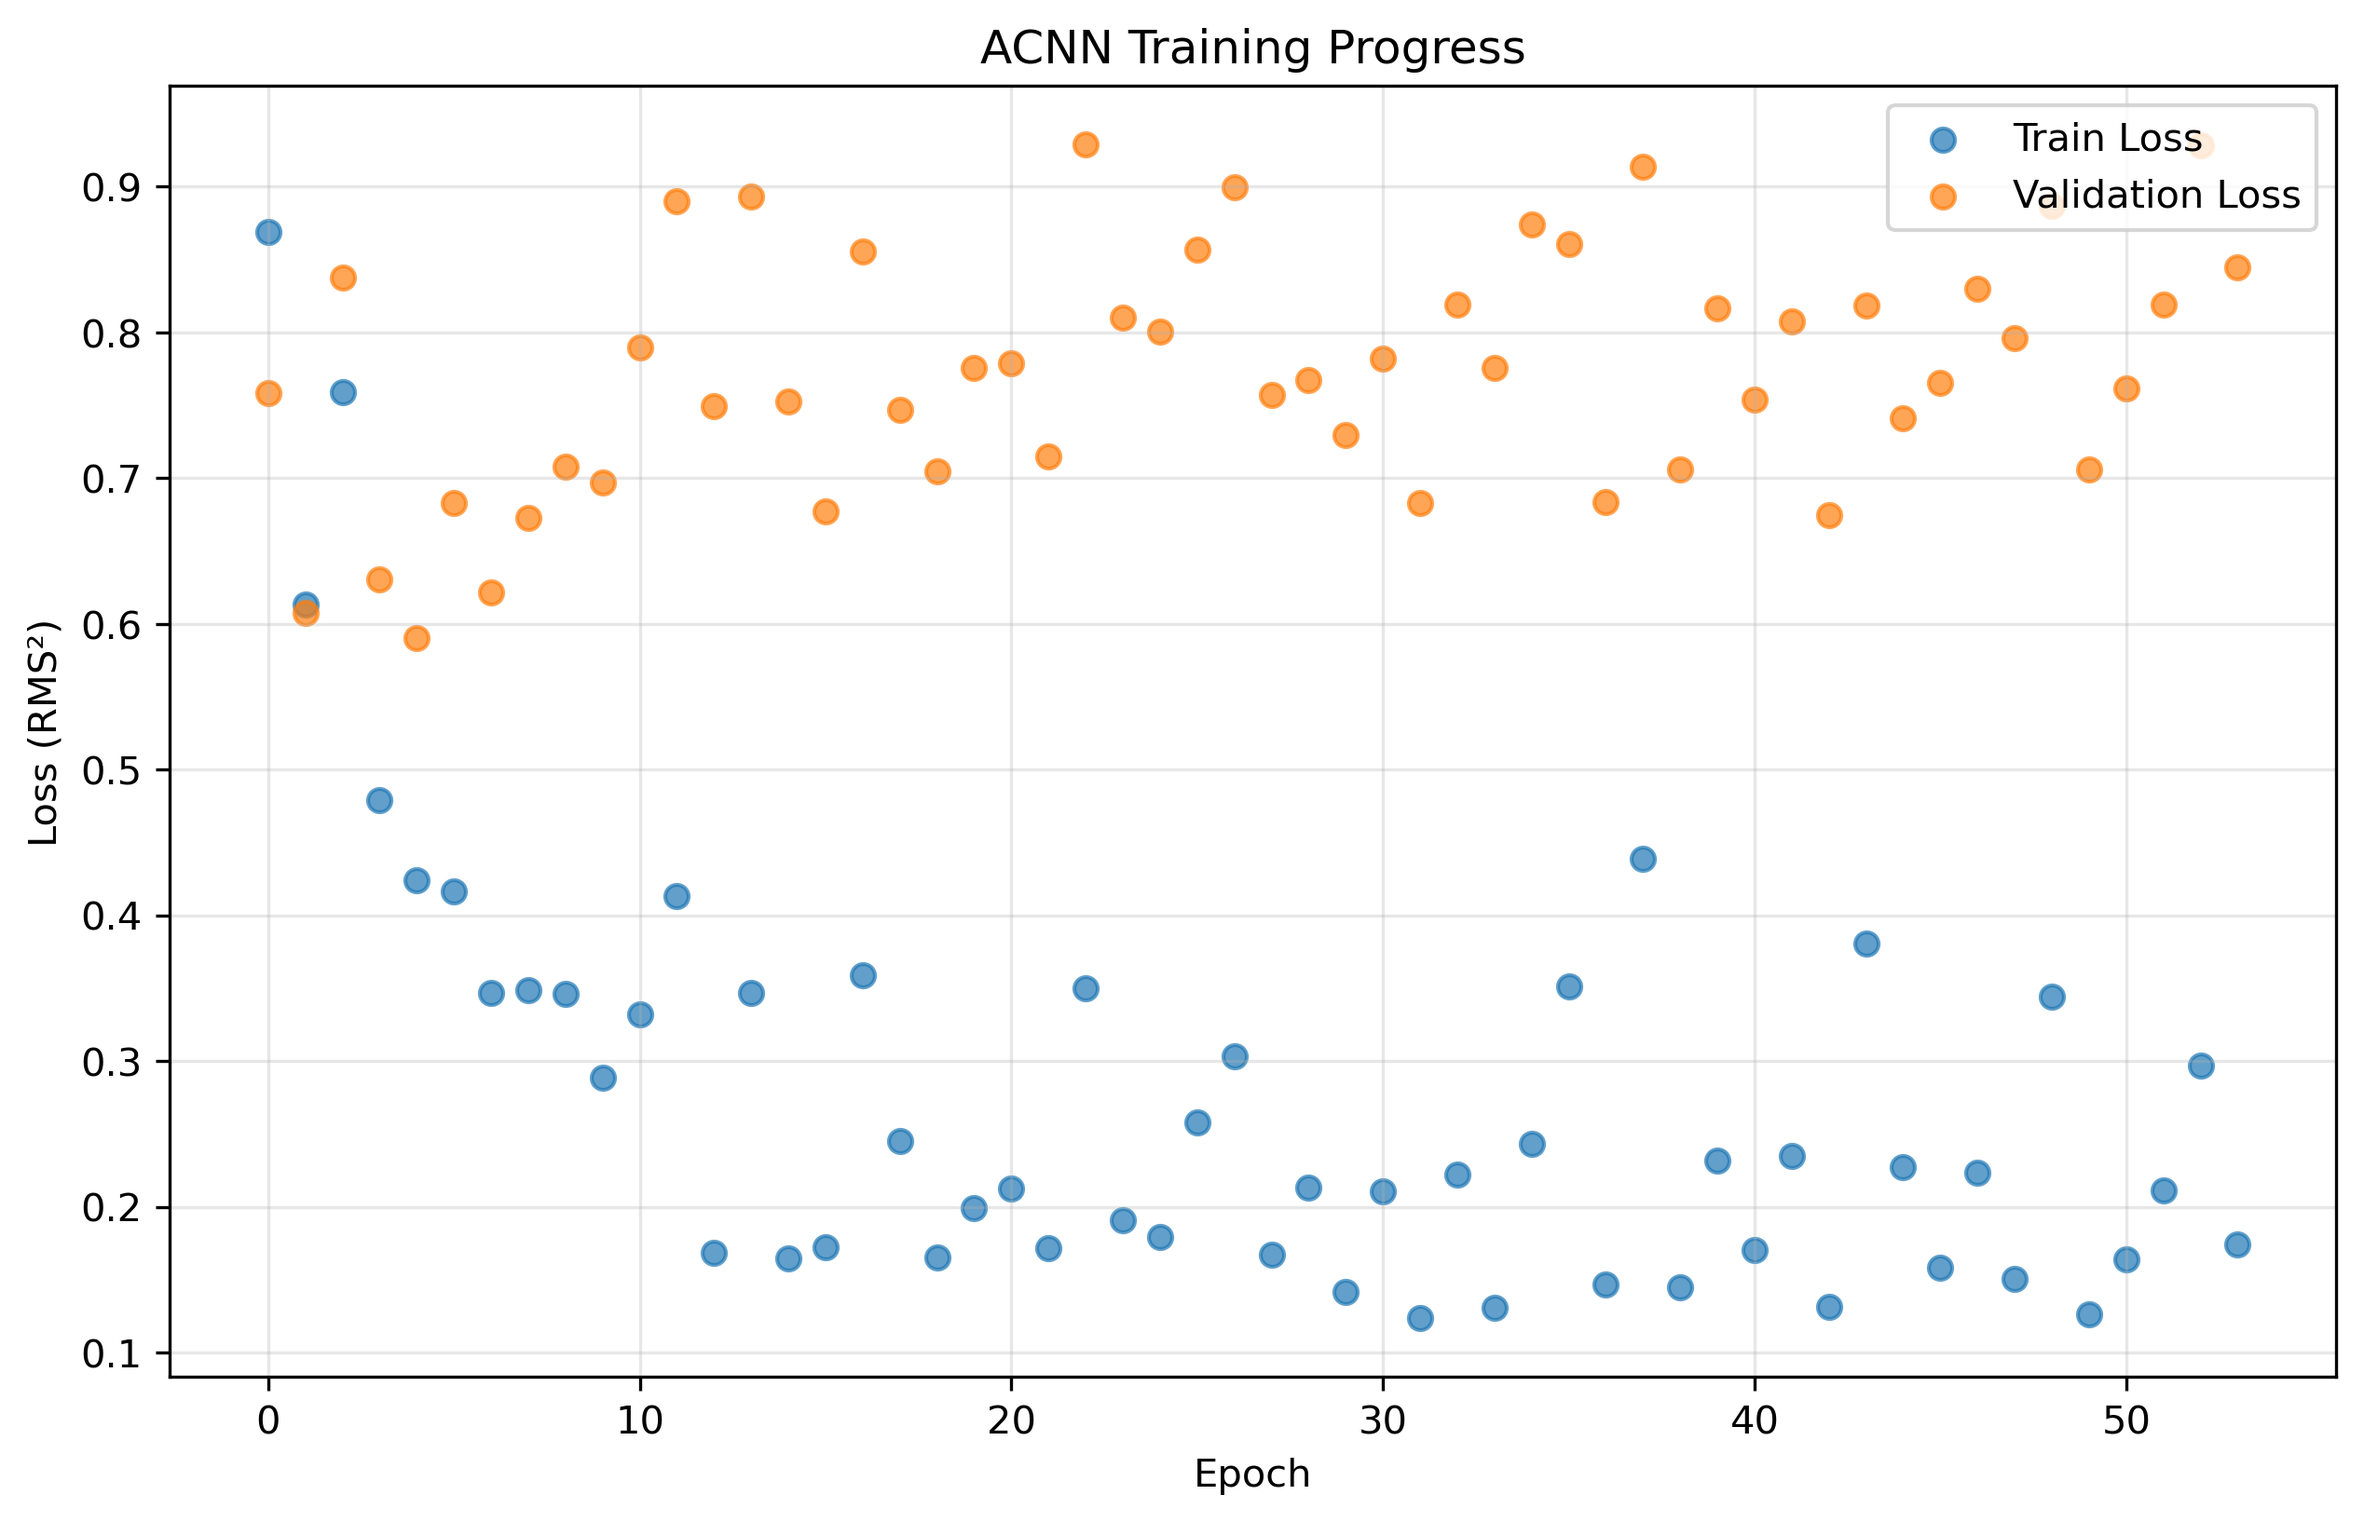
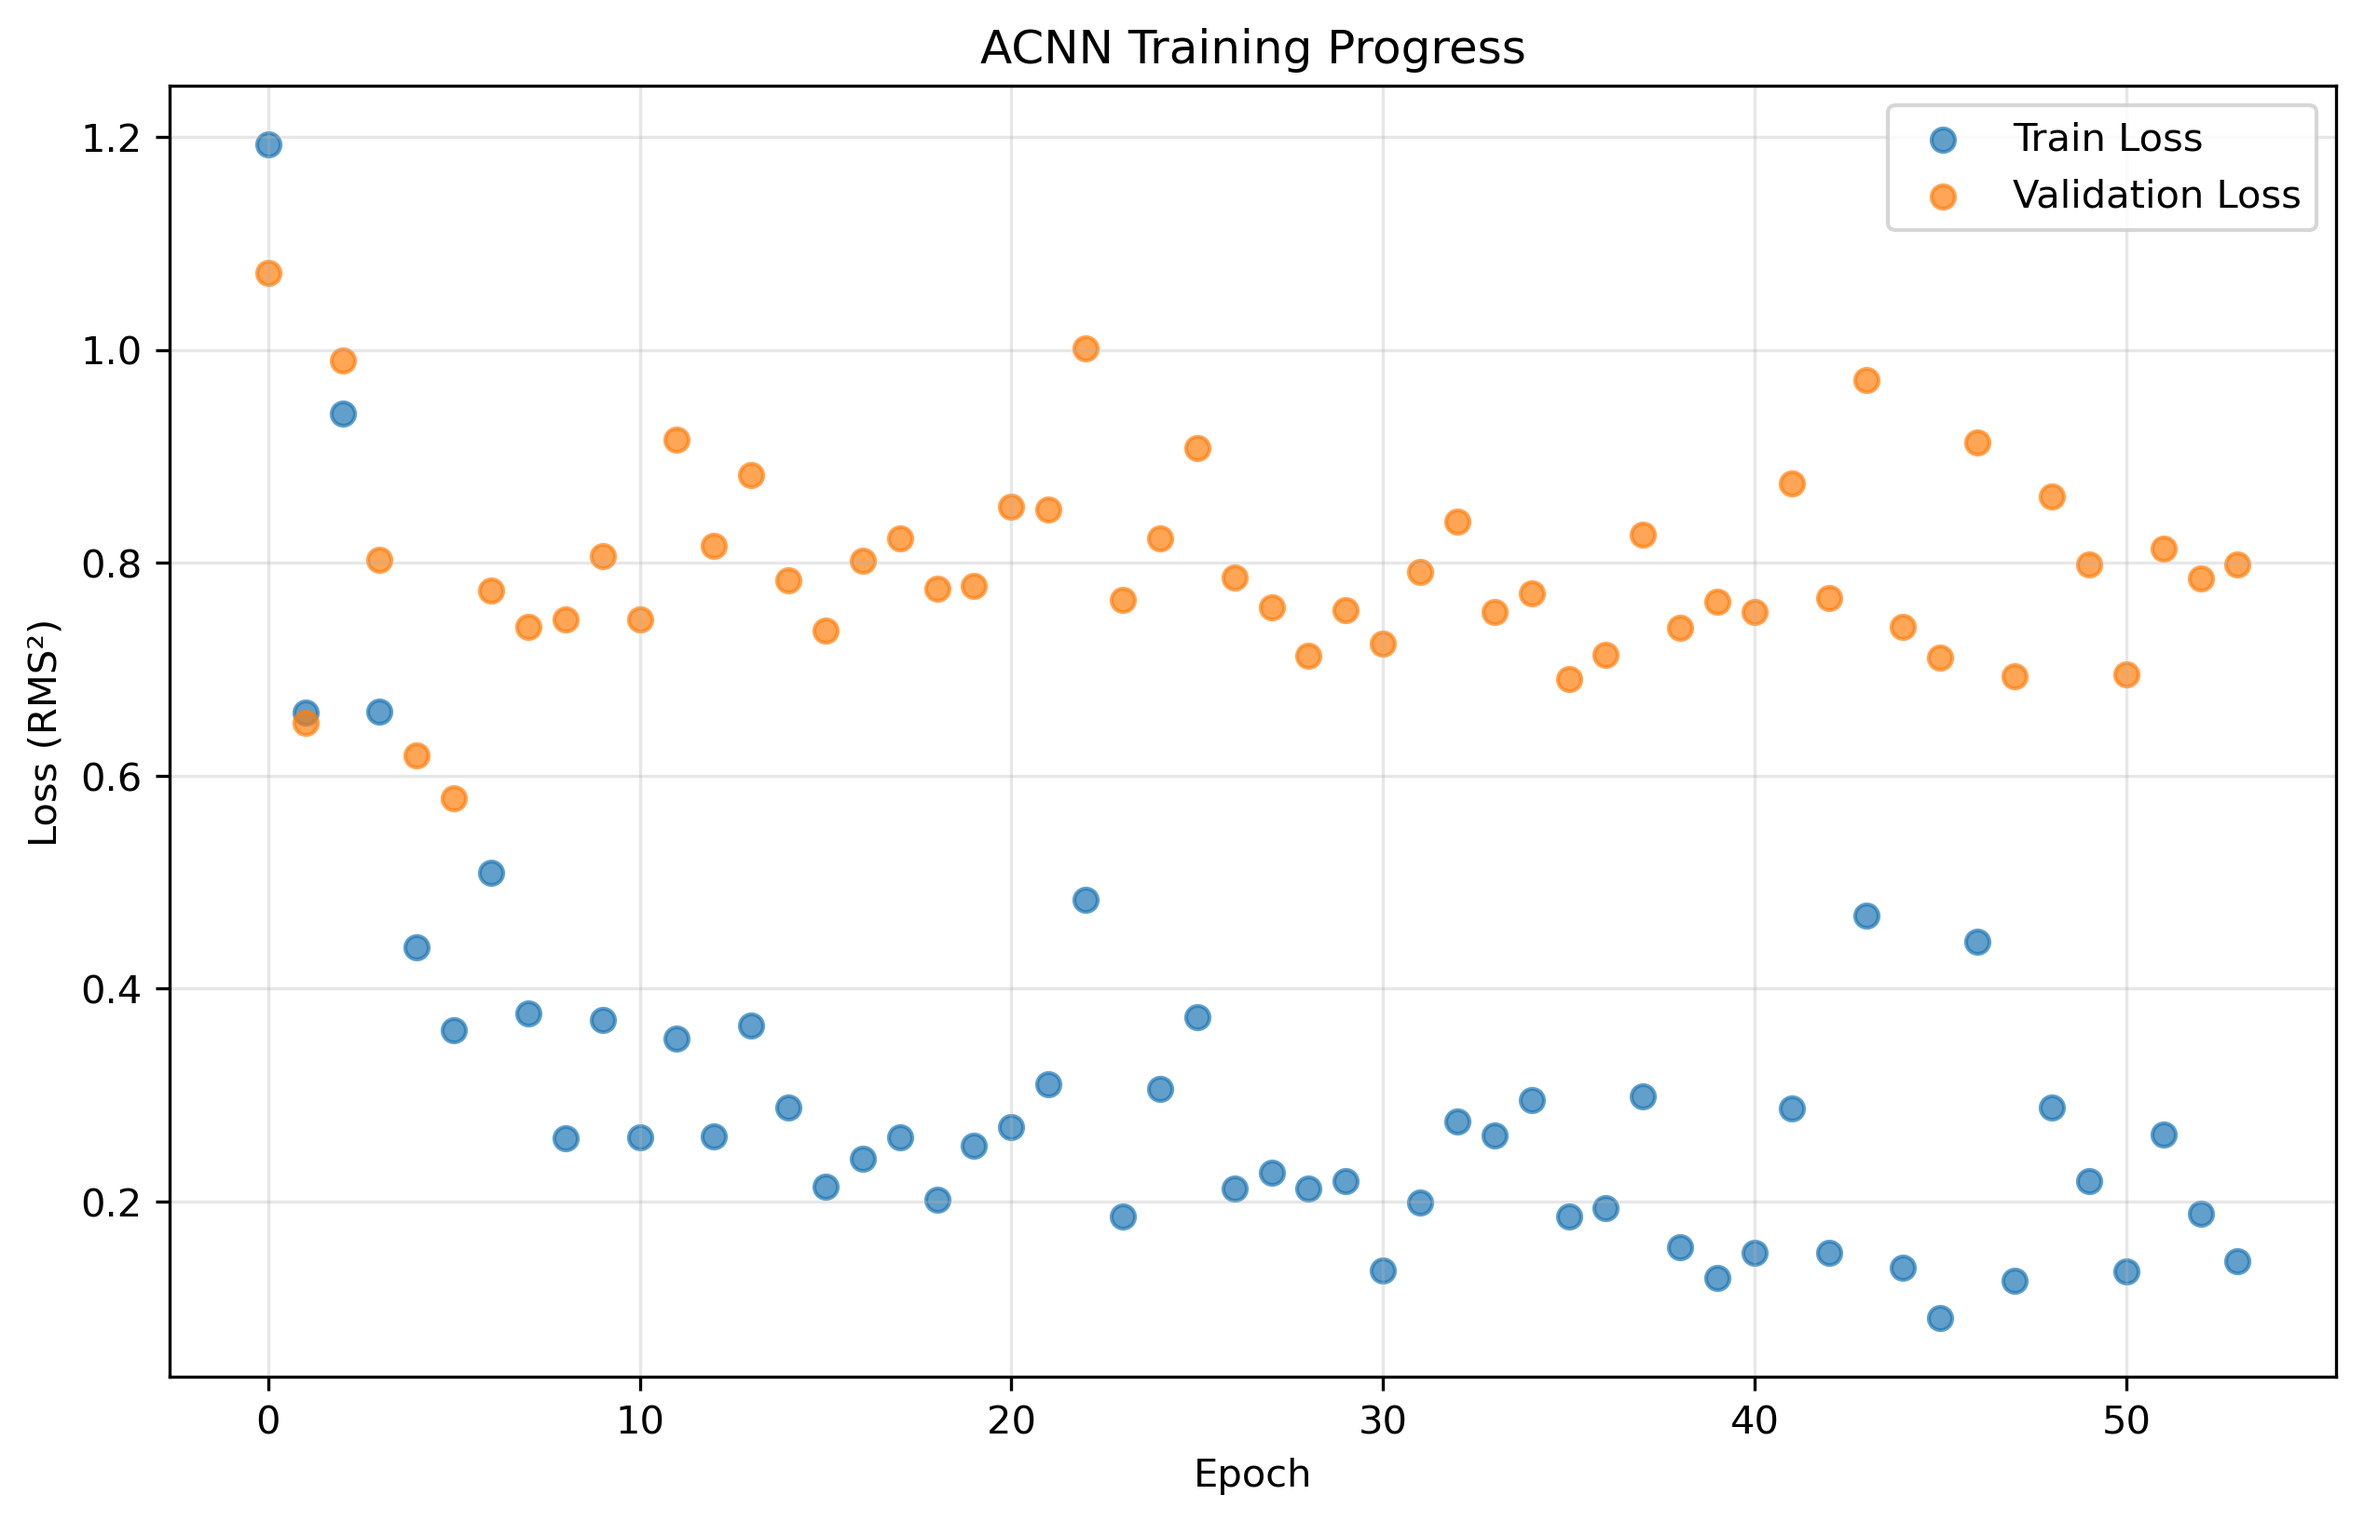
experiment with quantums r^2 more; its very low skull

diff --git a/atomic_convolutions_protein_ligand.py b/atomic_convolutions_protein_ligand.py
@@ -36,7 +36,8 @@ from deepchem.feat import AtomicConvFeaturizer
 try:
     from sklearn.decomposition import PCA
     from sklearn.preprocessing import MinMaxScaler
-    from qiskit.circuit.library import ZFeatureMap
+    from sklearn.metrics import r2_score
+    from qiskit.circuit.library import ZFeatureMap, RealAmplitudes
     from qiskit_machine_learning.algorithms import VQR
     from qiskit.primitives import Estimator
     from qiskit import QuantumCircuit
@@ -294,11 +295,94 @@ def flatten_dc_features(X_dc):
         np.ndarray: Flattened feature matrix
     """
     flat = []
-    for sample in X_dc:
-        # Each sample is a tuple/list of 9 arrays (one per feature type)
-        arrays = [arr.flatten() for arr in sample]
-        flat.append(np.concatenate(arrays))
-    return np.vstack(flat)
+    for i, sample in enumerate(X_dc):
+        try:
+            # Handle different feature structures
+            if isinstance(sample, dict):
+                # If sample is a dictionary, extract numeric arrays
+                arrays = []
+                for key, value in sample.items():
+                    if isinstance(value, np.ndarray):
+                        arrays.append(value.flatten())
+                    elif isinstance(value, (list, tuple)):
+                        arrays.append(np.array(value, dtype=np.float32).flatten())
+                if arrays:
+                    flat.append(np.concatenate(arrays))
+                else:
+                    # If no arrays found, create a small dummy feature
+                    flat.append(np.array([0.0], dtype=np.float32))
+            elif isinstance(sample, (list, tuple)):
+                # Each sample is a tuple/list of arrays (one per feature type)
+                arrays = []
+                for arr in sample:
+                    if isinstance(arr, np.ndarray):
+                        # Convert to float and flatten
+                        arrays.append(arr.astype(np.float32).flatten())
+                    elif isinstance(arr, dict):
+                        # Handle nested dictionaries
+                        for v in arr.values():
+                            if isinstance(v, np.ndarray):
+                                arrays.append(v.astype(np.float32).flatten())
+                            elif isinstance(v, (int, float)):
+                                arrays.append(np.array([float(v)], dtype=np.float32))
+                    elif isinstance(arr, (list, tuple)):
+                        arrays.append(np.array(arr, dtype=np.float32).flatten())
+                    elif isinstance(arr, (int, float)):
+                        arrays.append(np.array([float(arr)], dtype=np.float32))
+                if arrays:
+                    flat.append(np.concatenate(arrays))
+                else:
+                    flat.append(np.array([0.0], dtype=np.float32))
+            elif isinstance(sample, np.ndarray):
+                # Direct numpy array
+                if sample.ndim == 0:  # scalar
+                    flat.append(np.array([float(sample.item())], dtype=np.float32))
+                else:
+                    # Ensure it's numeric and flatten
+                    try:
+                        flat.append(sample.astype(np.float32).flatten())
+                    except (ValueError, TypeError):
+                        # If conversion fails, try to extract numeric values
+                        numeric_vals = []
+                        flat_sample = sample.flatten()
+                        for val in flat_sample:
+                            if isinstance(val, (int, float, np.number)):
+                                numeric_vals.append(float(val))
+                            elif hasattr(val, '__len__') and len(val) > 0:
+                                # Try to extract first numeric value
+                                try:
+                                    numeric_vals.append(float(val[0]))
+                                except (IndexError, TypeError, ValueError):
+                                    numeric_vals.append(0.0)
+                            else:
+                                numeric_vals.append(0.0)
+                        flat.append(np.array(numeric_vals, dtype=np.float32))
+            else:
+                # Unknown structure, create dummy feature
+                print(f"Warning: Unknown feature structure type {type(sample)} at index {i}, using dummy feature")
+                flat.append(np.array([0.0], dtype=np.float32))
+        except Exception as e:
+            print(f"Warning: Error processing sample {i}: {e}, using dummy feature")
+            flat.append(np.array([0.0], dtype=np.float32))
+    
+    if not flat:
+        raise ValueError("No valid features found in the dataset")
+    
+    # Ensure all feature vectors have the same length
+    max_len = max(len(f) for f in flat)
+    normalized_flat = []
+    for f in flat:
+        if len(f) < max_len:
+            # Pad with zeros if necessary
+            padded = np.zeros(max_len, dtype=np.float32)
+            padded[:len(f)] = f
+            normalized_flat.append(padded)
+        else:
+            normalized_flat.append(f)
+    
+    result = np.vstack(normalized_flat).astype(np.float32)
+    print(f"  Flattened features: {len(flat)} samples -> {result.shape} (dtype: {result.dtype})")
+    return result
 
 
 def conv_instruction(n, prefix):
@@ -387,19 +471,73 @@ def train_quantum_model(datasets, n_qubits=6):
     X_val_dc, y_val = val.X, val.y
     X_test_dc, y_test = test.X, test.y
     
+    # Debug: Print feature structure
+    print(f"Feature structure debugging:")
+    print(f"  Train features type: {type(X_train_dc)}")
+    if len(X_train_dc) > 0:
+        print(f"  First sample type: {type(X_train_dc[0])}")
+        if hasattr(X_train_dc[0], '__len__') and len(X_train_dc[0]) > 0:
+            print(f"  First element of first sample type: {type(X_train_dc[0][0]) if isinstance(X_train_dc[0], (list, tuple)) else 'N/A'}")
+    
     # Flatten DeepChem features
-    X_train_flat = flatten_dc_features(X_train_dc)
-    X_val_flat = flatten_dc_features(X_val_dc)
-    X_test_flat = flatten_dc_features(X_test_dc)
+    try:
+        X_train_flat = flatten_dc_features(X_train_dc)
+        X_val_flat = flatten_dc_features(X_val_dc)
+        X_test_flat = flatten_dc_features(X_test_dc)
+        print(f"  Flattened feature shapes: Train={X_train_flat.shape}, Val={X_val_flat.shape}, Test={X_test_flat.shape}")
+    except Exception as e:
+        print(f"Error flattening features: {e}")
+        return None, None, None
     
     # Scale and apply PCA
     fm_scaler = MinMaxScaler(feature_range=(-np.pi, np.pi))
-    X_all = fm_scaler.fit_transform(
-        np.vstack([X_train_flat, X_val_flat, X_test_flat])
-    )
     
-    pca = PCA(n_components=n_qubits)
+    # Ensure all arrays are properly 2D and consistent
+    print(f"  Pre-scaling shapes: Train={X_train_flat.shape}, Val={X_val_flat.shape}, Test={X_test_flat.shape}")
+    print(f"  Pre-scaling dtypes: Train={X_train_flat.dtype}, Val={X_val_flat.dtype}, Test={X_test_flat.dtype}")
+    
+    # Check for any problematic values
+    def check_array_validity(arr, name):
+        # Ensure array is numeric
+        if arr.dtype == object:
+            print(f"Warning: {name} has object dtype, attempting to convert to float32")
+            try:
+                arr = arr.astype(np.float32)
+            except (ValueError, TypeError) as e:
+                print(f"Error converting {name} to numeric: {e}")
+                # Create a fallback array
+                arr = np.zeros(arr.shape, dtype=np.float32)
+        
+        if not np.all(np.isfinite(arr)):
+            print(f"Warning: {name} contains non-finite values")
+            arr = np.nan_to_num(arr, nan=0.0, posinf=1.0, neginf=-1.0)
+        return arr.astype(np.float32)
+    
+    X_train_flat = check_array_validity(X_train_flat, "X_train_flat")
+    X_val_flat = check_array_validity(X_val_flat, "X_val_flat")
+    X_test_flat = check_array_validity(X_test_flat, "X_test_flat")
+    
+    try:
+        X_all = np.vstack([X_train_flat, X_val_flat, X_test_flat])
+        X_all = fm_scaler.fit_transform(X_all)
+    except Exception as e:
+        print(f"Error during stacking/scaling: {e}")
+        print("Attempting alternative approach...")
+        # Alternative: scale each dataset separately then combine
+        X_train_scaled = fm_scaler.fit_transform(X_train_flat)
+        X_val_scaled = fm_scaler.transform(X_val_flat)
+        X_test_scaled = fm_scaler.transform(X_test_flat)
+        X_all = np.vstack([X_train_scaled, X_val_scaled, X_test_scaled])
+    
+    # Ensure we don't request more PCA components than features
+    n_features = X_all.shape[1]
+    n_components = min(n_qubits, n_features)
+    if n_components != n_qubits:
+        print(f"Warning: Reducing PCA components from {n_qubits} to {n_components} (limited by feature count)")
+    
+    pca = PCA(n_components=n_components)
     X_all_pca = pca.fit_transform(X_all)
+    print(f"  PCA reduced features from {n_features} to {n_components} dimensions")
     
     # Split back
     N_train = X_train_flat.shape[0]
@@ -418,21 +556,15 @@ def train_quantum_model(datasets, n_qubits=6):
     y_test_scaled = y_all[N_train+N_val:].ravel()
     
     # Build quantum circuit
-    feature_map = ZFeatureMap(num_qubits=n_qubits, reps=1)
+    feature_map = ZFeatureMap(feature_dimension=n_components, reps=1)
     
-    qc_cnn = QuantumCircuit(n_qubits)
-    qc_cnn.compose(feature_map, range(n_qubits), inplace=True)
-    qc_cnn.append(conv_instruction(n_qubits, "c1"), range(n_qubits))
-    
-    # Pooling
-    src = list(range(0, n_qubits, 2))
-    snk = list(range(1, n_qubits, 2))
-    qc_cnn.append(pool_instruction(src, snk, "p1"), range(n_qubits))
+    # Create a simpler ansatz circuit for VQR
+    ansatz = RealAmplitudes(num_qubits=n_components, reps=1)
     
     # Train VQR
     vqr = VQR(
         feature_map=feature_map,
-        ansatz=qc_cnn,
+        ansatz=ansatz,
         optimizer=L_BFGS_B(maxiter=150),
         estimator=Estimator(),
     )
@@ -450,6 +582,28 @@ def train_quantum_model(datasets, n_qubits=6):
     print("Quantum model training completed!")
     
     return vqr, (y_val_pred, y_test_pred), (fm_scaler, pca, y_scaler)
+
+
+def evaluate_quantum_predictions(y_true_val, y_pred_val, y_true_test, y_pred_test):
+    """
+    Calculate R² scores for quantum model predictions.
+    
+    Args:
+        y_true_val: True validation labels
+        y_pred_val: Predicted validation values
+        y_true_test: True test labels  
+        y_pred_test: Predicted test values
+    
+    Returns:
+        dict: Dictionary with R² scores
+    """
+    val_r2 = r2_score(y_true_val, y_pred_val)
+    test_r2 = r2_score(y_true_test, y_pred_test)
+    
+    return {
+        'val': val_r2,
+        'test': test_r2
+    }
 
 
 def main():
@@ -487,6 +641,7 @@ def main():
     results = evaluate_model(model, [train, val, test])
     
     # Train quantum model (if available)
+    quantum_results = {}
     if QUANTUM_AVAILABLE:
         print("\n" + "="*60)
         print("Quantum Neural Network Extension")
@@ -500,6 +655,16 @@ def main():
             y_val_pred, y_test_pred = qnn_predictions
             print(f"Quantum model validation predictions shape: {y_val_pred.shape}")
             print(f"Quantum model test predictions shape: {y_test_pred.shape}")
+            
+            # Calculate quantum model R² scores
+            quantum_results = evaluate_quantum_predictions(
+                val.y.ravel(), y_val_pred,
+                test.y.ravel(), y_test_pred
+            )
+            
+            print(f"\nQuantum Model Performance:")
+            print(f"  Validation R²: {quantum_results['val']:.4f}")
+            print(f"  Test R²: {quantum_results['test']:.4f}")
     
     print("\n" + "="*80)
     print("Training completed successfully!")
@@ -510,11 +675,18 @@ def main():
     print(f"Classical ACNN Performance:")
     for dataset, score in results.items():
         print(f"  {dataset.capitalize()} R²: {score:.4f}")
+        
+    if QUANTUM_AVAILABLE and quantum_results:
+        print(f"\nQuantum ACNN Performance:")
+        print(f"  Validation R²: {quantum_results['val']:.4f}")
+        print(f"  Test R²: {quantum_results['test']:.4f}")
     
     print(f"\nThe model has been trained on {len(train)} training samples")
     print(f"and validated on {len(val)} validation samples.")
     print(f"Test set contains {len(test)} samples.")
     
+    # Return results including quantum performance
+    results['quantum'] = quantum_results
     return model, (train, val, test), results
 
 

diff --git a/README_ACNN.md b/README_ACNN.md
@@ -15,6 +15,7 @@ The scripts implement Atomic Convolutional Neural Networks (ACNNs) for predictin
 
 ## Quick Start
 
+- If your own python doesn't work, try 3.9.23 :D
 
 #### Option A: Use pyenv (recommended)
 ```powershell
